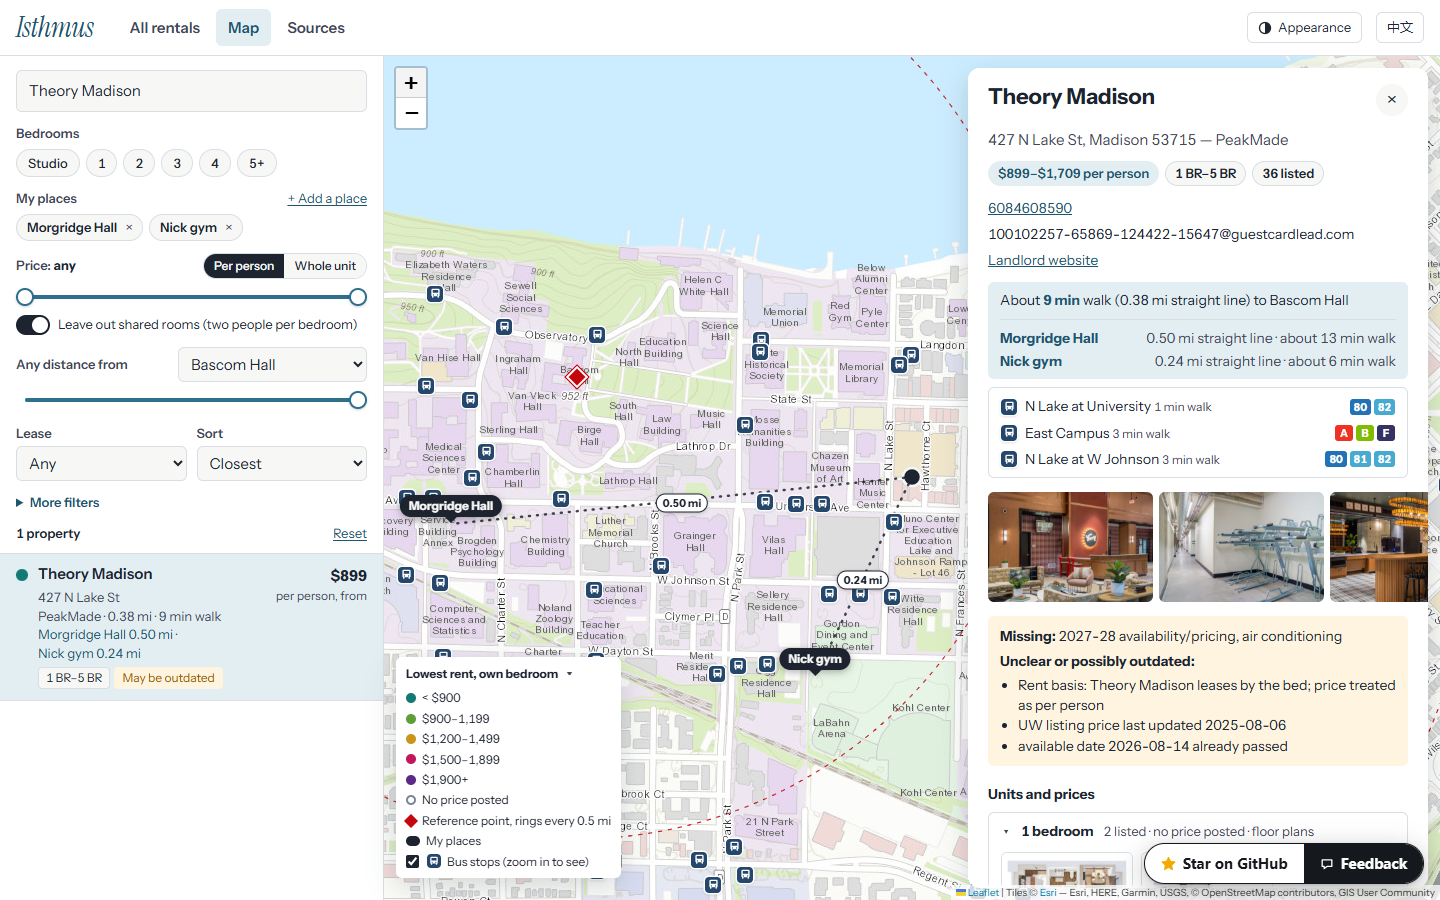
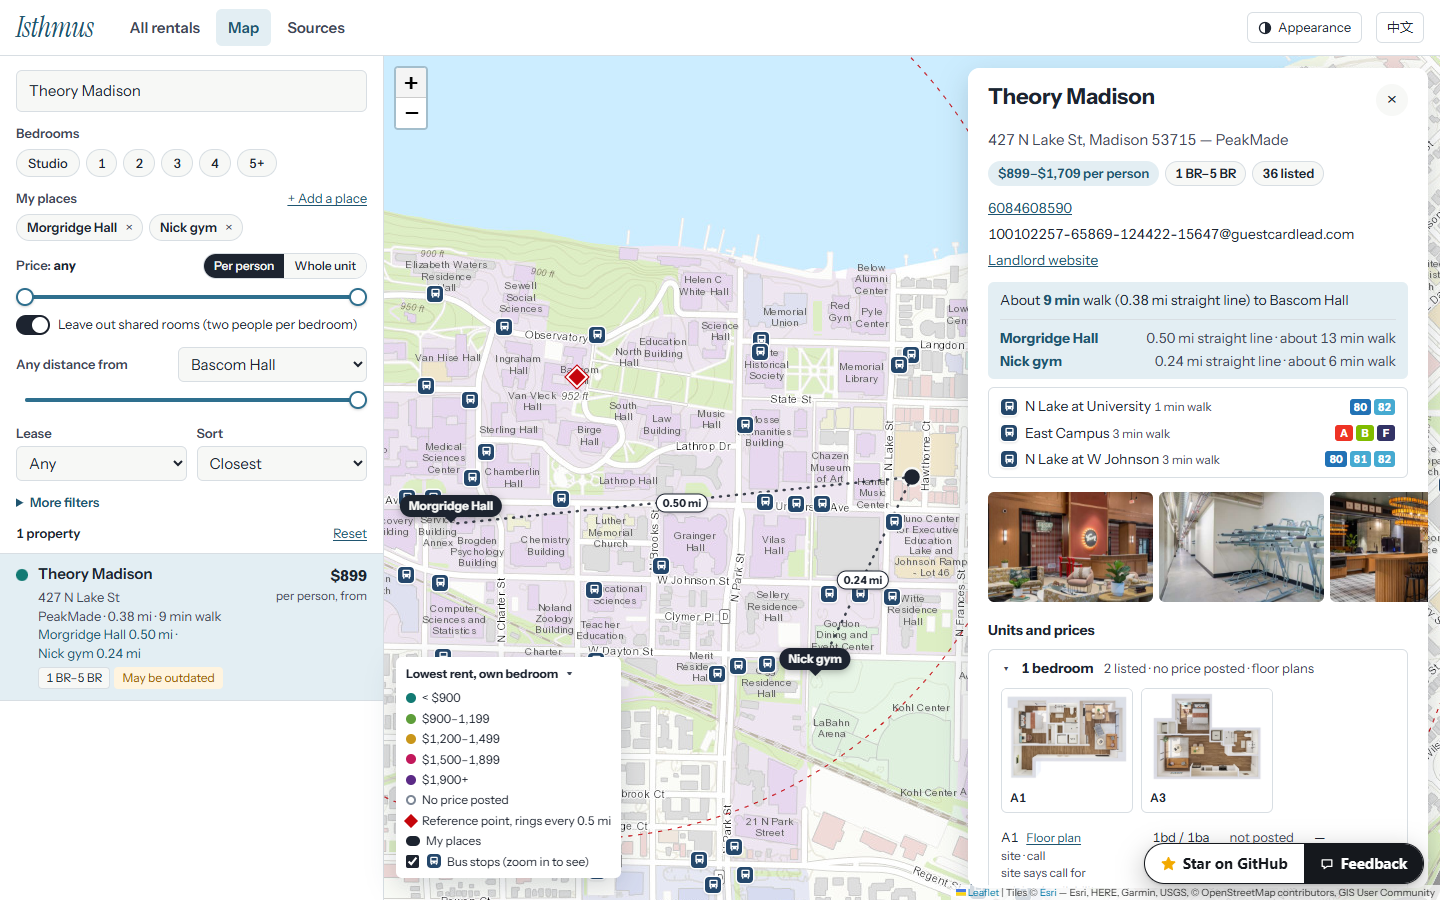
Update data 2026-10-01T22:24:10

Changed region(s): [[0.6875, 0.6844, 1.0, 0.9956]]

diff --git a/app.js b/app.js
@@ -521,7 +521,7 @@
   };
   function provTag(p, k) {
     const s = (p.prov || {})[k];
-    if (!s) return '';
+    if (!s || s === 'absent') return '';
     const t = PROV[s][lang === 'zh' ? 1 : 0];
     const tip = { official: 'From the landlord website', uw: 'From the UW off-campus listing service', inferred: 'Read from the listing description, not a structured field', absent: 'Not in the amenity list — confirm with the landlord', manual: 'Corrected by hand, e.g. from a landlord reply' }[s];
     return `<span class="prov ${s}" title="${esc(tip)}">${t}</span>`;
@@ -530,7 +530,7 @@
     if (v == null || v === '' || (Array.isArray(v) && !v.length)) return `<span class="nostate">${F().not_stated}</span>`;
     if (v === true) v = lang === 'zh' ? '是' : 'Yes';
     else if (v === false) v = lang === 'zh' ? '否' : 'No';
-    else if (v === 'not listed') v = lang === 'zh' ? '未列出（需确认）' : 'Not mentioned (ask)';
+    else if (v === 'not listed') return `<span class="nostate">${F().not_stated}</span>`;
     else if (Array.isArray(v)) v = lang === 'zh' ? v.map(t => UTIL_ZH[t] || t).join('、') : v.join(', ');
     else if (lang === 'zh' && ZH_RULES[k]) v = zhText(v, ZH_RULES[k]);
     return esc(v) + provTag(p, k);
@@ -723,14 +723,10 @@
     ].map(([k, l, v]) => `<dt>${l}</dt><dd>${factVal(p, k, v)}</dd>`).join('');
     const utilTxt = p.utilities_text ? `<dt>${zh ? '原文' : 'As written'}</dt><dd>${esc(p.utilities_text.slice(0, 220))}</dd>` : '';
     const fees = p.fees ? `<dt>${zh ? '费用' : 'Fees'}</dt><dd>${p.fees.map(esc).join('<br>')}${provTag(p, 'fees')}</dd>` : '';
-    const issues = [];
-    const gapList = (p.gaps || []);
-    if (gapList.length) issues.push(`<p><b>${zh ? '缺失：' : 'Missing:'}</b> ${gapList.map(g => esc(zhNote(g))).join(zh ? '、' : ', ')}</p>`);
-    const unclear = [...(p.conflicts || []), ...(p.stale || [])];
-    if (unclear.length) issues.push(`<p><b>${zh ? '不清楚 / 可能过期：' : 'Unclear or possibly outdated:'}</b></p><ul>${unclear.map(u => `<li>${esc(zhNote(u))}</li>`).join('')}</ul>`);
+    // Notes about the listing, plain text near the end; missing values just read "Not stated" where they belong
+    const notes = [...(p.conflicts || []), ...(p.stale || [])].map(u => esc(zhNote(u)));
     const banners = [...new Set(p.listings.flatMap(x => (x.notes || []).filter(n => /^Site banner:/.test(n))))];
-    if (banners.length) issues.push(`<p><b>${zh ? '官网公告' : 'Landlord site says'}:</b> ${banners.map(b => esc(b.replace(/^Site banner:\s*/, ''))).join(' / ')}</p>`);
-    if (p.uw_dupes_hidden) issues.push(`<p>${zh ? `另有 ${p.uw_dupes_hidden} 条 UW 列表重复数据已隐藏（以官网为准）。` : `${p.uw_dupes_hidden} duplicate rows from the UW list are hidden in favor of the landlord site.`}</p>`);
+    banners.forEach(b => notes.push((zh ? '官网公告：' : 'Landlord site says: ') + esc(b.replace(/^Site banner:\s*/, ''))));
     const photos = (p.photos || []).slice(0, 6).map(u => `<img src="${esc(u)}" alt="" loading="lazy" onerror="this.remove()">`).join('');
     const uwLink = (p.links || []).find(([l]) => /UW Off-Campus/.test(l));
     const contact = [
@@ -747,7 +743,7 @@
       walk: `<div class="walk">${F().walk(walkMin(d), d.toFixed(2), esc(state.ref))}${p.geo && p.geo.startsWith('nominatim') ? `<br><small>${zh ? '位置为近似值（按地址检索）' : 'Approximate location (geocoded)'}</small>` : ''}${placesBlock(p)}</div>`,
       bus: busBlock(p),
       photos: photos ? `<div class="photos">${photos}</div>` : '',
-      issues: issues.length ? `<div class="issues">${issues.join('')}</div>` : '',
+      notes: notes.length ? `<h4>${zh ? '说明' : 'Notes'}</h4><ul class="notes">${notes.map(n => `<li>${n}</li>`).join('')}</ul>` : '',
       units: `<h4>${zh ? '户型与价格' : 'Units and prices'}</h4>${units}
         ${hiddenShared ? `<p class="hidden-note">${zh ? `另有 ${hiddenShared} 个合住价格（两人一间）未显示，关掉"不算合住"可查看。` : `${hiddenShared} shared-room prices (two people per bedroom) are hidden; turn off "Leave out shared rooms" to see them.`}</p>` : ''}`,
       terms: `<h4>${zh ? '条件' : 'Terms'}</h4><dl class="facts">${facts}${utilTxt}${fees}</dl>`,
@@ -765,7 +761,7 @@
     const p = r.p, o = detailParts(r);
     const dr = $('drawer');
     dr.innerHTML = `<div class="dhead"><h2>${esc(o.title)}</h2><button class="close" aria-label="Close">×</button></div>
-      ${o.addr}${o.overview}${o.contact}${o.walk}${o.bus}${o.photos}${o.issues}${o.units}${o.terms}${o.amen}${o.desc}${o.srcs}`;
+      ${o.addr}${o.overview}${o.contact}${o.walk}${o.bus}${o.photos}${o.units}${o.terms}${o.notes}${o.amen}${o.desc}${o.srcs}`;
     dr.hidden = false;
     document.body.classList.add('m-drawer');
     dr.scrollTop = 0;
@@ -829,7 +825,7 @@
   }
   function renderPage(r) {
     const p = r.p, o = detailParts(r), g = $('gpage'), top = g.scrollTop;
-    g.innerHTML = pageBar() + `<div class="gp"><div class="gp-main"><h2>${esc(o.title)}</h2>${o.addr}${o.overview}${o.photos}${o.issues}${o.units}${o.terms}${o.amen}${o.desc}${o.srcs}</div>
+    g.innerHTML = pageBar() + `<div class="gp"><div class="gp-main"><h2>${esc(o.title)}</h2>${o.addr}${o.overview}${o.photos}${o.units}${o.terms}${o.notes}${o.amen}${o.desc}${o.srcs}</div>
       <aside class="gp-side"><div class="gp-map" id="pmap" role="img" aria-label="${esc(lang === 'zh' ? `${o.title} 的位置` : `Where ${o.title} is`)}"></div>${o.contact}${o.walk}${o.bus}</aside></div>`;
     $('gback').onclick = leavePage;
     g.scrollTop = top;
@@ -1271,12 +1267,12 @@
     $('sources').innerHTML = zh ? `
       <h2>数据从哪来</h2>
       <p>数据于 <b>${esc(META.built)}</b> 抓取，范围是 Bascom Hall 周围 ${META.radius_mi} 英里（直线）。房东官网优先；UW 校外租房列表（offcampushousing.wisc.edu）补充没有官网数据的房东。同一单元两边都有时，以官网为准，UW 那条隐藏。</p>
-      <p>每个字段旁边的小标签说明它从哪来：<span class="prov official">官网</span> 房东网站的结构化字段；<span class="prov uw">UW 列表</span> UW 校外租房服务；<span class="prov inferred">推断</span> 从房源描述文字里读出来的；<span class="prov absent">未列出</span> 设施清单里没提，需要向房东确认。没有任何来源的值显示为 <span class="nostate">未说明</span>。</p>
+      <p>每个字段旁边的小标签说明它从哪来：<span class="prov official">官网</span> 房东网站的结构化字段；<span class="prov uw">UW 列表</span> UW 校外租房服务；<span class="prov inferred">推断</span> 从房源描述文字里读出来的。没有任何来源的值显示为 <span class="nostate">未说明</span>。</p>
       <p>步行时间按直线距离 × 1.25、每小时 3 英里估算，只作参考。</p>
       ${TR ? `<p>公交站和线路来自 Madison Metro 官方 GTFS 数据（${esc(TR.built)} 下载）。「我常去的地方」只存在你自己的浏览器里；搜索地址时，搜索词会发给 OpenStreetMap 的 Nominatim 服务。</p>` : ''}` : `
       <h2>Where the data comes from</h2>
       <p>Collected on <b>${esc(META.built)}</b> for everything within ${META.radius_mi} miles (straight line) of Bascom Hall. Landlord websites come first; the UW off-campus listing service (offcampushousing.wisc.edu) fills in landlords without a site we can read. When the same unit appears in both, the landlord site wins and the UW row is hidden.</p>
-      <p>The small mark next to each value says where it came from: <span class="prov official">site</span> a structured field on the landlord website; <span class="prov uw">UW list</span> the UW off-campus listing service; <span class="prov inferred">inferred</span> read from the listing's description text; <span class="prov absent">not listed</span> missing from an otherwise complete amenity list, so worth confirming. Values no source gives show as <span class="nostate">Not stated</span>.</p>
+      <p>The small mark next to each value says where it came from: <span class="prov official">site</span> a structured field on the landlord website; <span class="prov uw">UW list</span> the UW off-campus listing service; <span class="prov inferred">inferred</span> read from the listing's description text. Values no source gives show as <span class="nostate">Not stated</span>.</p>
       <p>Walking times assume 1.25× the straight-line distance at 3 mph. Treat them as estimates.</p>
       ${TR ? `<p>Bus stops and routes come from Madison Metro's GTFS feed (downloaded ${esc(TR.built)}). Your places are saved only in this browser; address searches are sent to OpenStreetMap's Nominatim service.</p>` : ''}`;
     $('sources').innerHTML += `<h2>${zh ? '各房东物业数' : 'Properties by landlord'}</h2><table><tbody>${llRows}</tbody></table>

diff --git a/style.css b/style.css
@@ -250,7 +250,7 @@ input[type=range] { width: 100%; accent-color: var(--lake); }
 .facts { display: grid; grid-template-columns: 112px 1fr; gap: 6px 12px; font-size: 14px; margin: 0; }
 .facts dt { color: var(--ink-2); }
 .facts dd { margin: 0; }
-.nostate { color: var(--warn); border-bottom: 1px dashed var(--warn); }
+.nostate { color: var(--ink-2); }
 .prov { font-size: 11px; font-weight: 600; padding: 0 5px; border-radius: 3px; margin-left: 6px; vertical-align: 1px; white-space: nowrap; }
 .prov.official { background: var(--lake-wash); color: var(--lake-ink); }
 .prov.uw { border: 1px solid var(--badger); color: var(--badger); }
@@ -275,7 +275,7 @@ input[type=range] { width: 100%; accent-color: var(--lake); }
 .units tr.flagged td:first-child { box-shadow: inset 3px 0 0 var(--warn); padding-left: 6px; }
 .issues { background: var(--warn-wash); border-radius: var(--radius-s); padding: 10px 12px; font-size: 14px; }
 .issues p { margin: 0 0 4px; }
-.issues ul { margin: 4px 0 0; padding-left: 18px; }
+.notes { margin: 0; padding-left: 18px; font-size: 14px; color: var(--ink-2); }
 .desc { font-size: 14px; color: var(--ink-2); white-space: pre-line; }
 .srcs { padding-left: 18px; font-size: 14px; margin: 0; }
 

diff --git a/index.html b/index.html
@@ -10,7 +10,7 @@
 <link rel="preconnect" href="https://fonts.gstatic.com" crossorigin>
 <link href="https://fonts.googleapis.com/css2?family=Instrument+Sans:wght@400;500;600;700&family=Instrument+Serif:ital@0;1&display=swap" rel="stylesheet">
 <link rel="stylesheet" href="https://cdnjs.cloudflare.com/ajax/libs/leaflet/1.9.4/leaflet.min.css">
-<link rel="stylesheet" href="style.css?v=cb3f2255">
+<link rel="stylesheet" href="style.css?v=cc1ec5a5">
 <script src="theme.js?v=f138724b"></script>
 </head>
 <body>
@@ -168,7 +168,7 @@
 <script src="data/config.js?v=36a0155d"></script>
 <script src="engine.js?v=fce5e301"></script>
 <script src="guard-client.js?v=9af92d3c"></script>
-<script src="app.js?v=373e5141"></script>
+<script src="app.js?v=90aed069"></script>
 <script src="feedback.js?v=f6ff8df4" data-site="rentals" data-star="WEBGRS/madison-rentals" data-float-bottom-narrow="94" data-narrow-max="860" defer></script>
 </body>
 </html>
